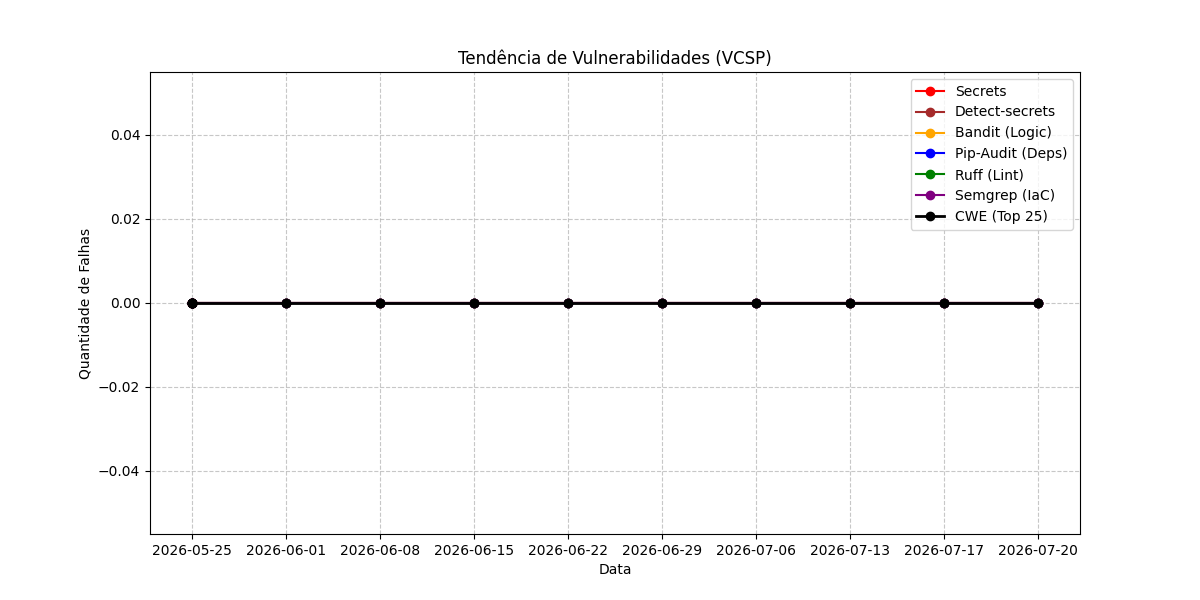
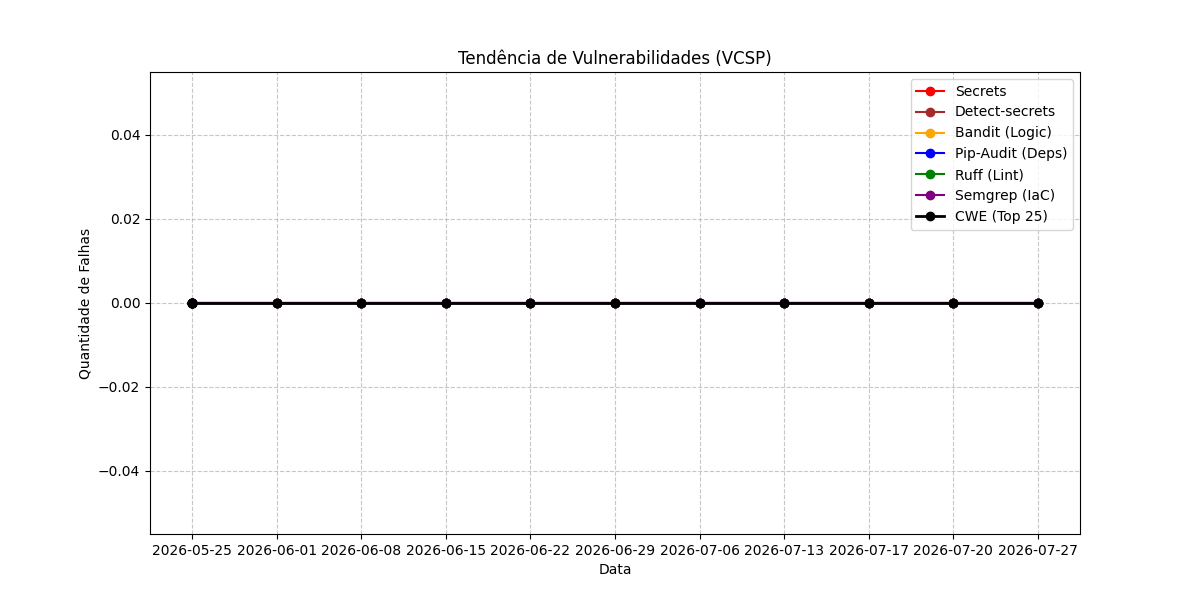
docs: update security trend chart

diff --git a/README.md b/README.md
@@ -206,7 +206,7 @@ O VCSP realiza as seguintes verificações automáticas em cada execução:
 O gráfico abaixo mostra a tendência das vulnerabilidades encontradas por cada ferramenta ao longo do tempo:
 
 
-![Bug Trend](.vibe/assets/bug_trend.png?v=20260720105127)
+![Bug Trend](.vibe/assets/bug_trend.png?v=20260727112003)
 
 ---
 
